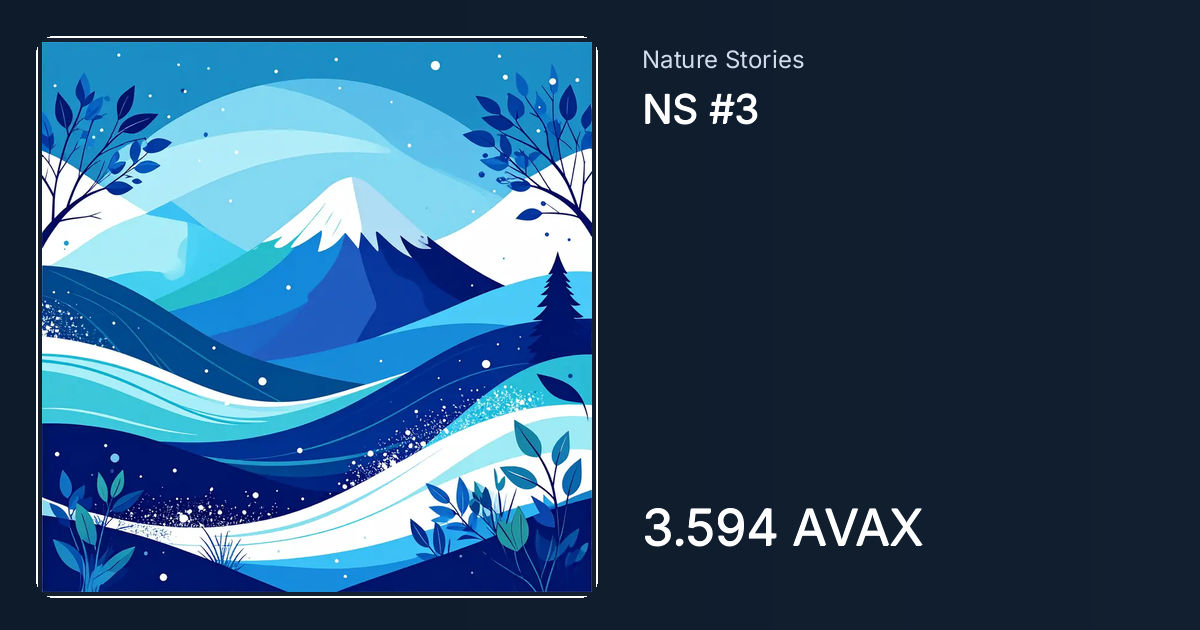
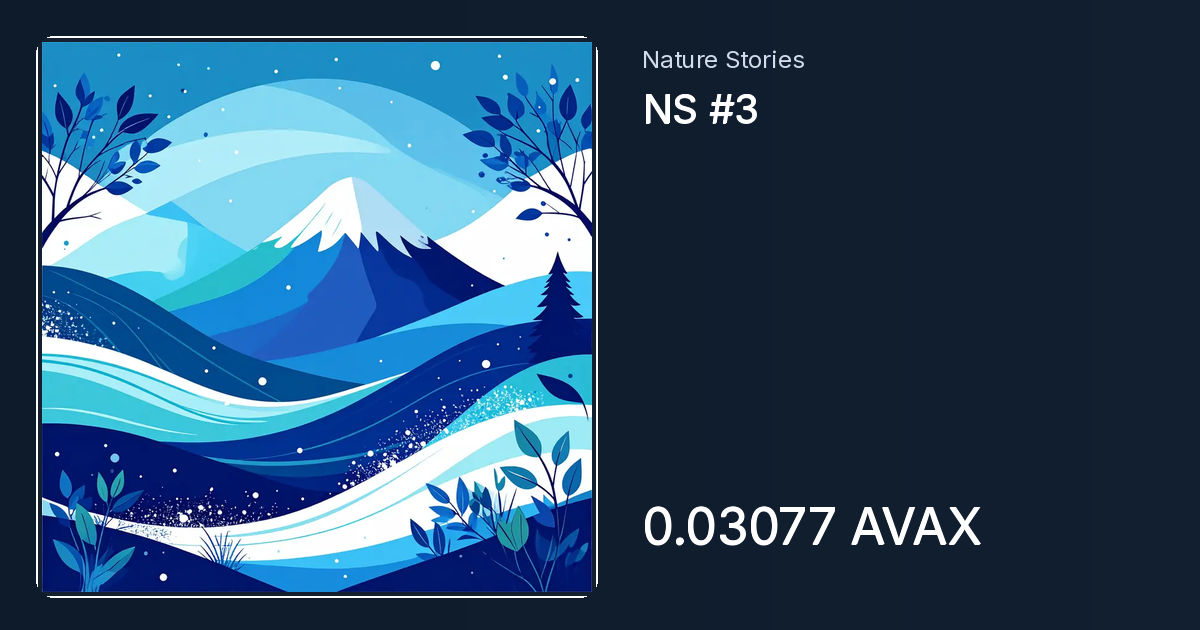
OG landings avalanche_nature_stories

diff --git a/nft/avalanche-nature-stories/3.html b/nft/avalanche-nature-stories/3.html
@@ -3,20 +3,20 @@
 <head>
     <meta charset="UTF-8">
     <meta name="viewport" content="width=device-width, initial-scale=1.0">
-    <meta name="description" content="3.594 AVAX · Nature Stories — Listed">
+    <meta name="description" content="0.03077 AVAX · Nature Stories — Listed">
     <title>NS #3 | Jack Beatnic Gallery</title>
     <meta property="og:type" content="website">
     <meta property="og:url" content="https://jackbeatnic.github.io/nft/avalanche-nature-stories/3.html">
     <meta property="og:title" content="NS #3 | Jack Beatnic Gallery">
-    <meta property="og:description" content="3.594 AVAX · Nature Stories — Listed">
-    <meta property="og:image" content="https://jackbeatnic.github.io/assets/og/avalanche-nature-stories-3.jpg?v=202609190040">
+    <meta property="og:description" content="0.03077 AVAX · Nature Stories — Listed">
+    <meta property="og:image" content="https://jackbeatnic.github.io/assets/og/avalanche-nature-stories-3.jpg?v=202609192252">
     <meta property="og:image:width" content="1200">
     <meta property="og:image:height" content="630">
     <meta name="twitter:card" content="summary_large_image">
     <meta name="twitter:site" content="@JackBeatnicAI">
     <meta name="twitter:title" content="NS #3 | Jack Beatnic Gallery">
-    <meta name="twitter:description" content="3.594 AVAX · Nature Stories — Listed">
-    <meta name="twitter:image" content="https://jackbeatnic.github.io/assets/og/avalanche-nature-stories-3.jpg?v=202609190040">
+    <meta name="twitter:description" content="0.03077 AVAX · Nature Stories — Listed">
+    <meta name="twitter:image" content="https://jackbeatnic.github.io/assets/og/avalanche-nature-stories-3.jpg?v=202609192252">
     <meta name="twitter:image:alt" content="NS #3 | Jack Beatnic Gallery">
     <link rel="canonical" href="https://jackbeatnic.github.io/nft/avalanche-nature-stories/3.html">
     <script>location.replace("https://jackbeatnic.github.io/?work=3&collection=avalanche_nature_stories&section=ai_art&ai=evm&edition=avalanche");</script>

diff --git a/nft/avalanche-nature-jam/3.html b/nft/avalanche-nature-jam/3.html
@@ -9,14 +9,14 @@
     <meta property="og:url" content="https://jackbeatnic.github.io/nft/avalanche-nature-jam/3.html">
     <meta property="og:title" content="JB NJ #0003 | Jack Beatnic Gallery">
     <meta property="og:description" content="Avalanche · Nature Jam — Jack Beatnic Gallery">
-    <meta property="og:image" content="https://jackbeatnic.github.io/assets/og/avalanche-nature-jam-3.jpg?v=202609190040">
+    <meta property="og:image" content="https://jackbeatnic.github.io/assets/og/avalanche-nature-jam-3.jpg?v=202609192252">
     <meta property="og:image:width" content="1200">
     <meta property="og:image:height" content="630">
     <meta name="twitter:card" content="summary_large_image">
     <meta name="twitter:site" content="@JackBeatnicAI">
     <meta name="twitter:title" content="JB NJ #0003 | Jack Beatnic Gallery">
     <meta name="twitter:description" content="Avalanche · Nature Jam — Jack Beatnic Gallery">
-    <meta name="twitter:image" content="https://jackbeatnic.github.io/assets/og/avalanche-nature-jam-3.jpg?v=202609190040">
+    <meta name="twitter:image" content="https://jackbeatnic.github.io/assets/og/avalanche-nature-jam-3.jpg?v=202609192252">
     <meta name="twitter:image:alt" content="JB NJ #0003 | Jack Beatnic Gallery">
     <link rel="canonical" href="https://jackbeatnic.github.io/nft/avalanche-nature-jam/3.html">
     <script>location.replace("https://jackbeatnic.github.io/?work=3&collection=avalanche_nature_jam&section=ai_art&ai=evm&series=nature_jam&edition=avalanche");</script>

diff --git a/nft/sui-nature-stories-tradeport/3.html b/nft/sui-nature-stories-tradeport/3.html
@@ -9,14 +9,14 @@
     <meta property="og:url" content="https://jackbeatnic.github.io/nft/sui-nature-stories-tradeport/3.html">
     <meta property="og:title" content="NS #3 S | Jack Beatnic Gallery">
     <meta property="og:description" content="Sui · Nature Stories SE — Mint">
-    <meta property="og:image" content="https://jackbeatnic.github.io/assets/og/sui-nature-stories-tradeport-3.jpg?v=202609190040">
+    <meta property="og:image" content="https://jackbeatnic.github.io/assets/og/sui-nature-stories-tradeport-3.jpg?v=202609192252">
     <meta property="og:image:width" content="1200">
     <meta property="og:image:height" content="630">
     <meta name="twitter:card" content="summary_large_image">
     <meta name="twitter:site" content="@JackBeatnicAI">
     <meta name="twitter:title" content="NS #3 S | Jack Beatnic Gallery">
     <meta name="twitter:description" content="Sui · Nature Stories SE — Mint">
-    <meta name="twitter:image" content="https://jackbeatnic.github.io/assets/og/sui-nature-stories-tradeport-3.jpg?v=202609190040">
+    <meta name="twitter:image" content="https://jackbeatnic.github.io/assets/og/sui-nature-stories-tradeport-3.jpg?v=202609192252">
     <meta name="twitter:image:alt" content="NS #3 S | Jack Beatnic Gallery">
     <link rel="canonical" href="https://jackbeatnic.github.io/nft/sui-nature-stories-tradeport/3.html">
     <script>location.replace("https://jackbeatnic.github.io/?work=3&collection=sui_nature_stories_tradeport&section=ai_art&ai=sui");</script>

diff --git a/nft/xrpl-jb-ai-nature/3.html b/nft/xrpl-jb-ai-nature/3.html
@@ -9,14 +9,14 @@
     <meta property="og:url" content="https://jackbeatnic.github.io/nft/xrpl-jb-ai-nature/3.html">
     <meta property="og:title" content="JBN #3 X | Jack Beatnic Gallery">
     <meta property="og:description" content="0.1 XRP · Jack Beatnic — Mint">
-    <meta property="og:image" content="https://jackbeatnic.github.io/assets/og/xrpl-jb-ai-nature-3.jpg?v=202609190040">
+    <meta property="og:image" content="https://jackbeatnic.github.io/assets/og/xrpl-jb-ai-nature-3.jpg?v=202609192252">
     <meta property="og:image:width" content="1200">
     <meta property="og:image:height" content="630">
     <meta name="twitter:card" content="summary_large_image">
     <meta name="twitter:site" content="@JackBeatnicAI">
     <meta name="twitter:title" content="JBN #3 X | Jack Beatnic Gallery">
     <meta name="twitter:description" content="0.1 XRP · Jack Beatnic — Mint">
-    <meta name="twitter:image" content="https://jackbeatnic.github.io/assets/og/xrpl-jb-ai-nature-3.jpg?v=202609190040">
+    <meta name="twitter:image" content="https://jackbeatnic.github.io/assets/og/xrpl-jb-ai-nature-3.jpg?v=202609192252">
     <meta name="twitter:image:alt" content="JBN #3 X | Jack Beatnic Gallery">
     <link rel="canonical" href="https://jackbeatnic.github.io/nft/xrpl-jb-ai-nature/3.html">
     <script>location.replace("https://jackbeatnic.github.io/?work=3&collection=xrpl_jb_ai_nature&section=ai_art&ai=xrpl");</script>
